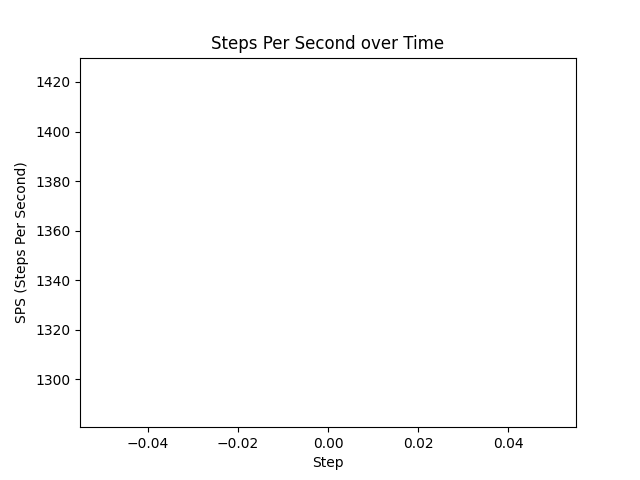
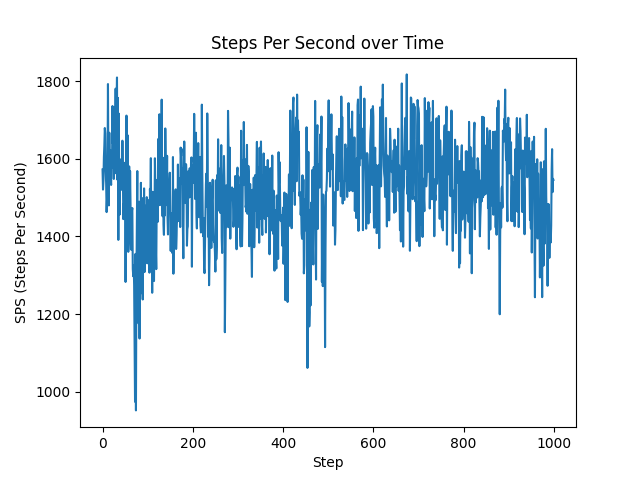
changes in agarle_bench to calculate SPS

diff --git a/bench/agarle_bench.py b/bench/agarle_bench.py
@@ -76,7 +76,7 @@ def main():
     global_step = 0
     start_time = time.time()
     total_reward = 0
-    num_episodes = 1
+    num_episodes = 1000
 
     import matplotlib.pyplot as plt
 
@@ -99,7 +99,7 @@ def main():
         episode_elapsed_time = time.time() - episode_start_time
         episode_SPS = episode_steps / episode_elapsed_time
         SPS_VALUES.append(episode_SPS)
-        print(f"Episode {iter} finished in {episode_elapsed_time:.2f} seconds")
+        print(f"Episode {iter} finished in {episode_SPS:.2f} seconds")
 
     # Plotting SPS values
     plt.figure()
@@ -116,7 +116,7 @@ def main():
 def parse_args():
     parser = argparse.ArgumentParser(description="Benchmark Agar.io Learning Environment")
 
-    parser.add_argument("-n", "--num_steps", default=3001, type=int, help="Number of steps")
+    parser.add_argument("-n", "--num_steps", default=1000, type=int, help="Number of steps")
     parser.add_argument("--config_file", default='./tasks_configs/Exploration.json', type=str, help="Config file for the environment")
     env_options = parser.add_argument_group("Environment")
     env_options.add_argument("--env", default="agario-grid-v0")
